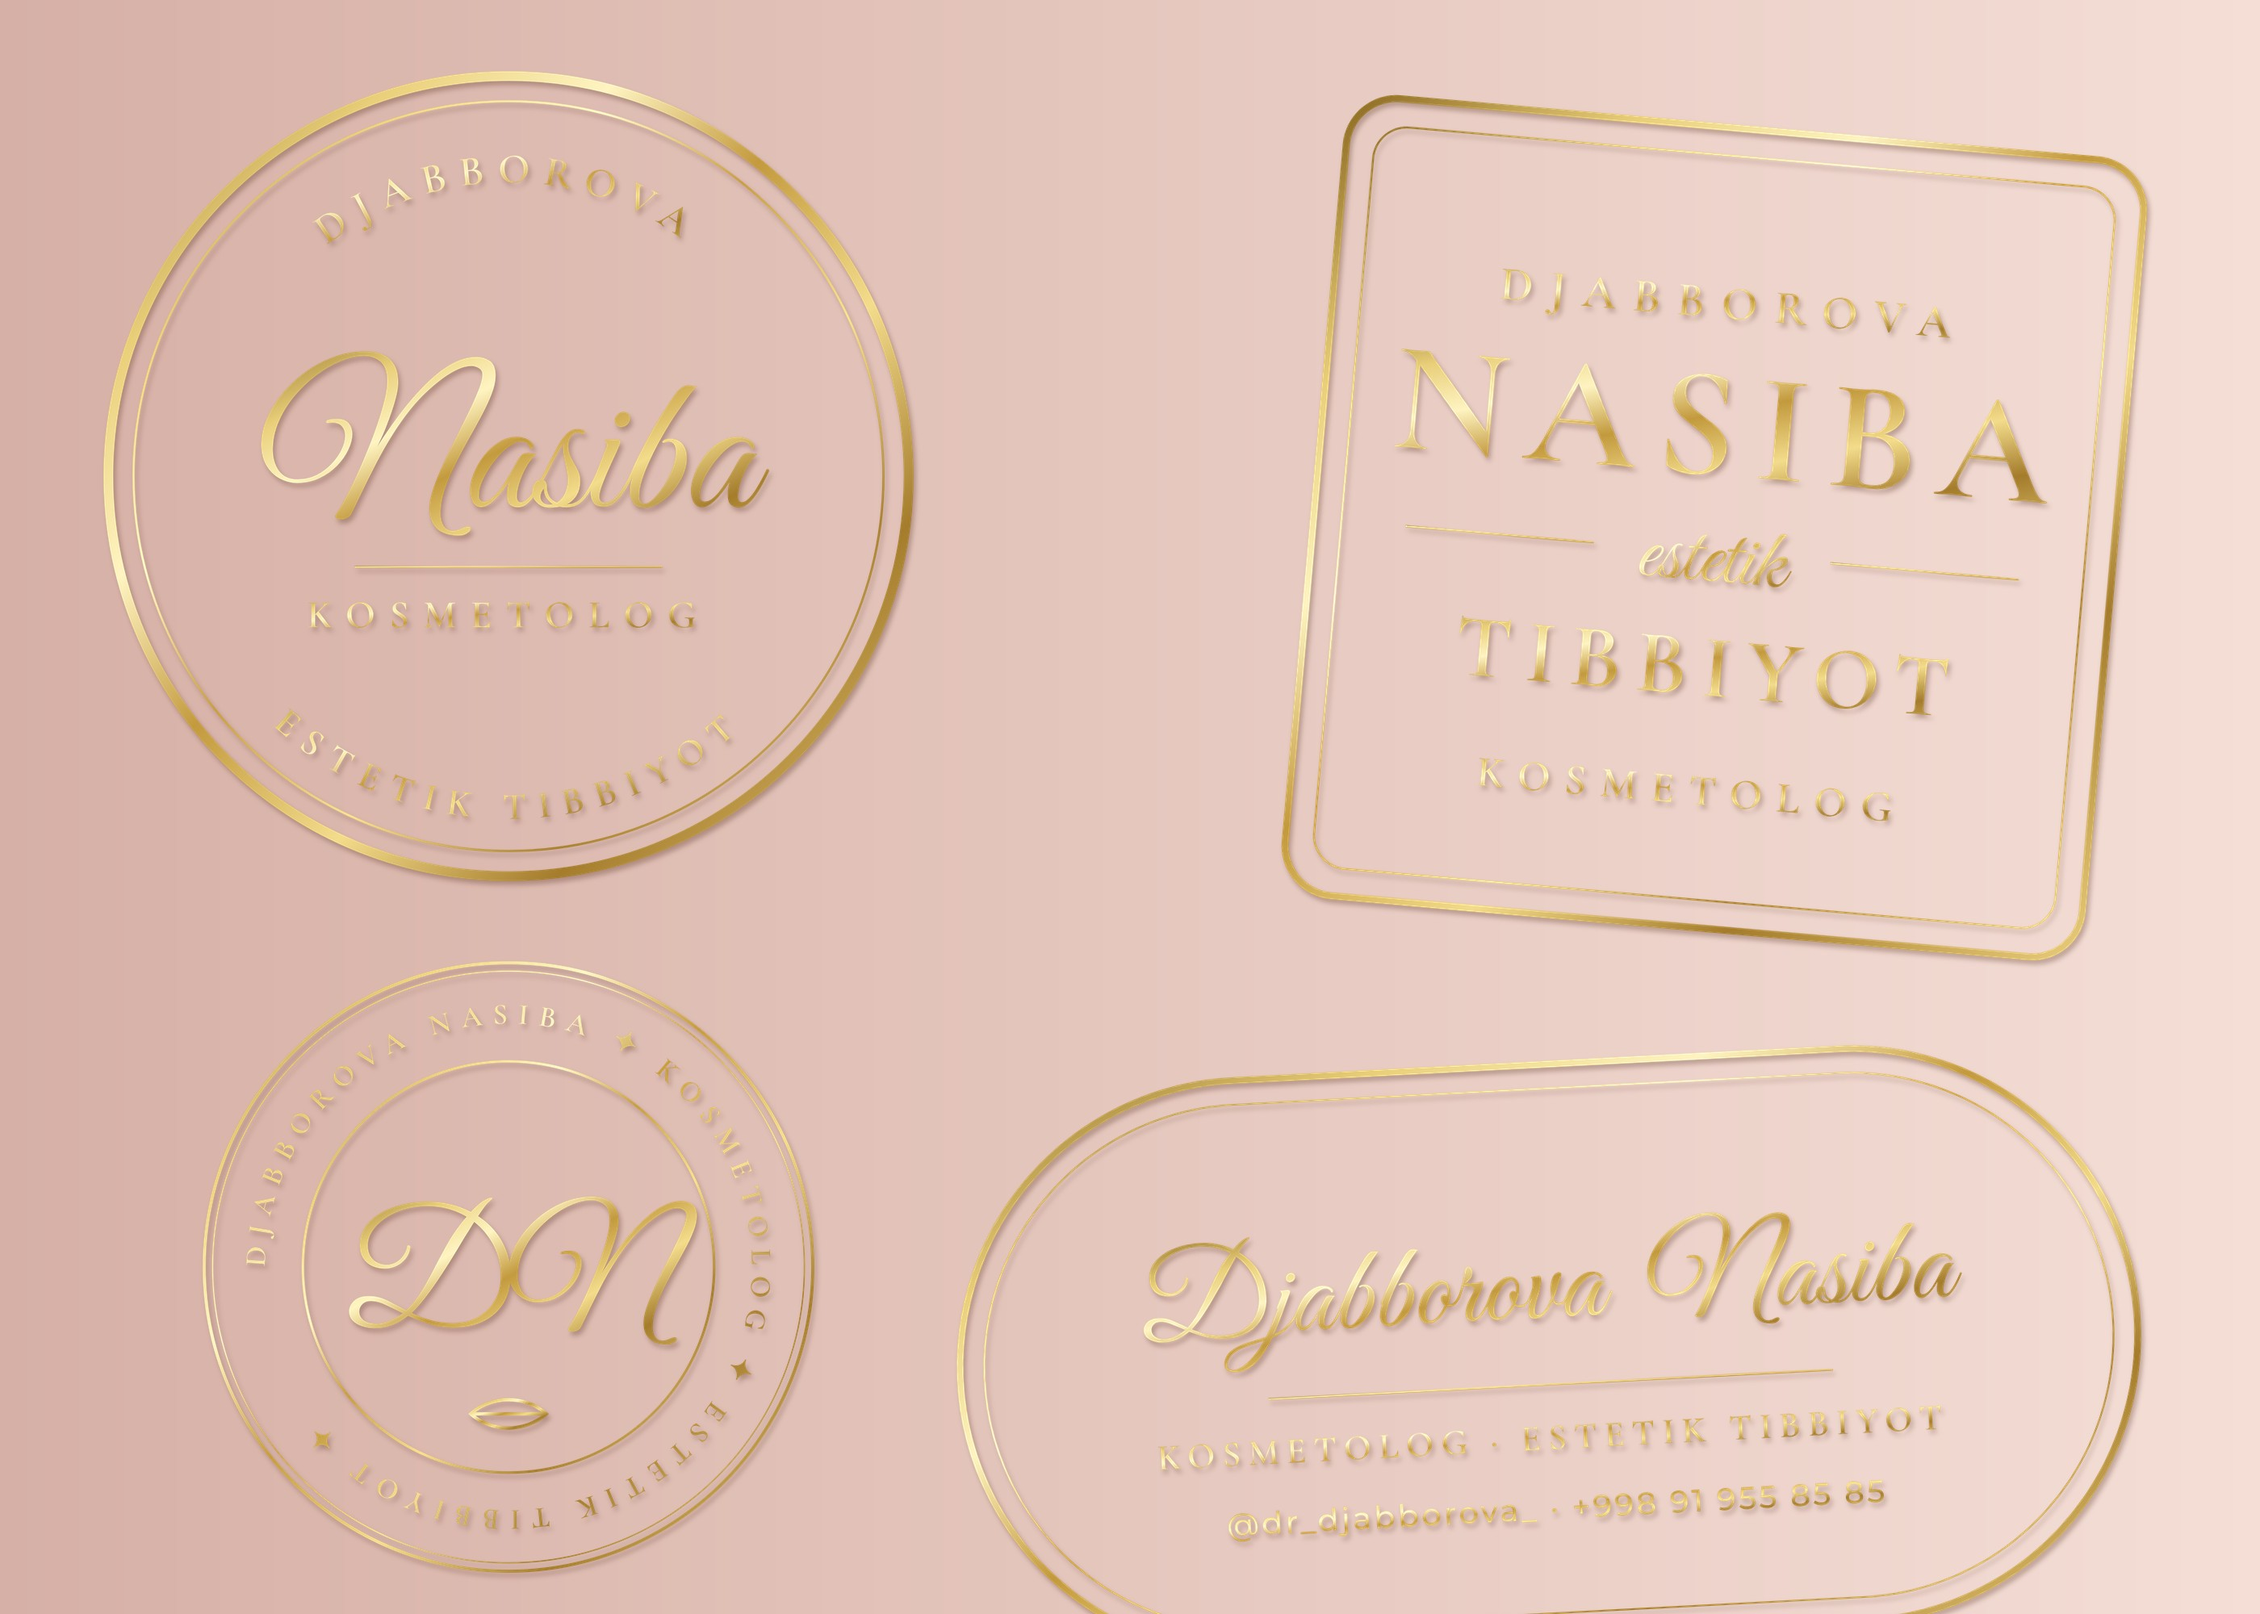
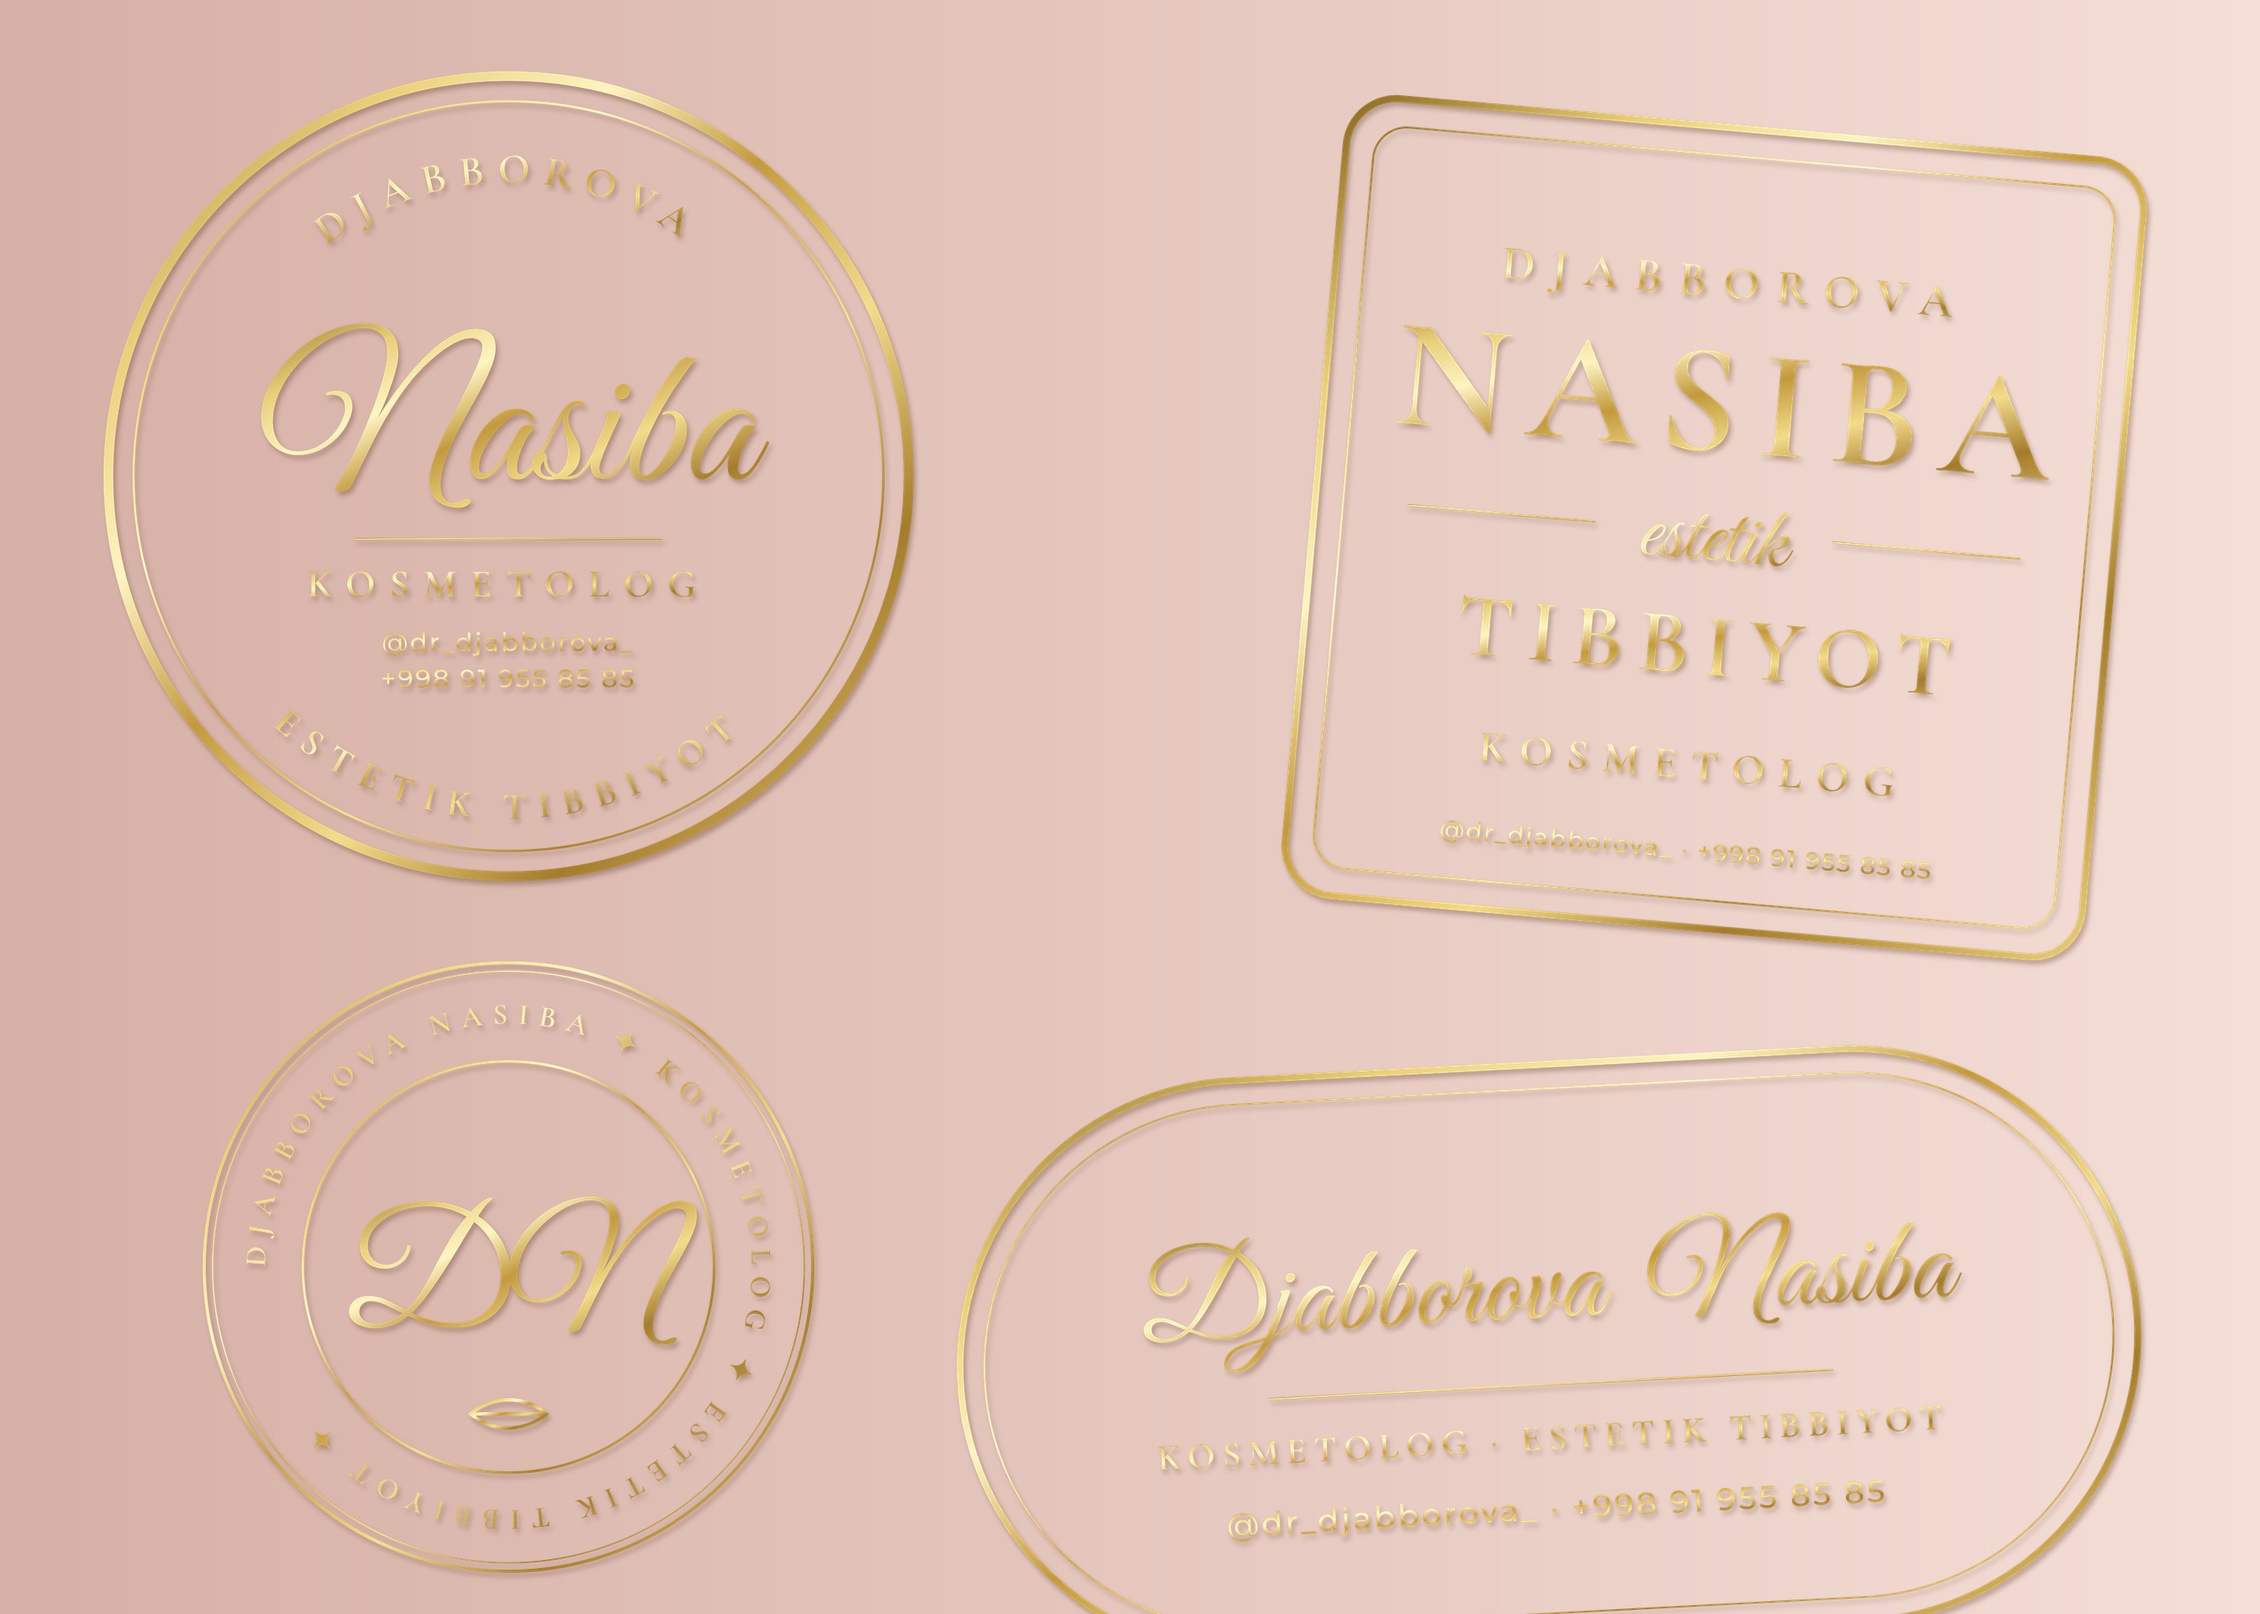
Dumaloq va kvadrat stikerlarga instagram va telefon qo'shildi
Claude-Session: https://claude.ai/code/session_01EZMa5FWMdc5kAPaxufAuZZ

diff --git a/stikerlar/v5_birinchi_dizayn/manba.html b/stikerlar/v5_birinchi_dizayn/manba.html
@@ -24,22 +24,25 @@ svg{display:block}
 <circle cx="300" cy="300" r="268" fill="none" stroke="url(#gold)" stroke-width="1.6"/>
 <text class="serif" font-size="30" letter-spacing="9" fill="url(#gold)" text-anchor="middle"><textPath href="#arcT" startOffset="50%">DJABBOROVA</textPath></text>
 <text class="serif" font-size="27" letter-spacing="7" fill="url(#gold)" text-anchor="middle" dominant-baseline="hanging"><textPath href="#arcB" startOffset="50%">ESTETIK TIBBIYOT</textPath></text>
-<text class="script" x="300" y="322" font-size="140" fill="url(#gold)" text-anchor="middle">Nasiba</text>
-<rect x="190.0" y="364.3" width="220.0" height="1.4" fill="url(#gold)"/>
-<text class="serif" x="300" y="408" font-size="28" letter-spacing="10" fill="url(#gold)" text-anchor="middle">KOSMETOLOG</text>
+<text class="script" x="300" y="302" font-size="140" fill="url(#gold)" text-anchor="middle">Nasiba</text>
+<rect x="190.0" y="344.3" width="220.0" height="1.4" fill="url(#gold)"/>
+<text class="serif" x="300" y="386" font-size="28" letter-spacing="10" fill="url(#gold)" text-anchor="middle">KOSMETOLOG</text>
+<text class="sans" x="300" y="425" font-size="18" letter-spacing="1.5" fill="url(#gold)" text-anchor="middle">@dr_djabborova_</text>
+<text class="sans" x="300" y="451" font-size="18" letter-spacing="1.5" fill="url(#gold)" text-anchor="middle">+998 91 955 85 85</text>
 </svg></div>
 
 <!-- 2: kvadrat (Marina Cake uslubi) -->
 <div class="s" id="s2"><svg width="600" height="600" viewBox="0 0 600 600">
 <rect x="14" y="14" width="572" height="572" rx="36" fill="none" stroke="url(#gold)" stroke-width="5"/>
 <rect x="34" y="34" width="532" height="532" rx="24" fill="none" stroke="url(#gold)" stroke-width="1.4"/>
-<text class="serif" x="300" y="150" font-size="34" letter-spacing="12" fill="url(#gold)" text-anchor="middle">DJABBOROVA</text>
-<text class="serif" x="306" y="262" font-size="112" letter-spacing="14" fill="url(#gold)" text-anchor="middle" font-weight="700">NASIBA</text>
-<rect x="80.0" y="317.3" width="135.0" height="1.4" fill="url(#gold)"/>
-<rect x="385.0" y="317.3" width="135.0" height="1.4" fill="url(#gold)"/>
-<text class="script" x="300" y="338" font-size="62" fill="url(#gold)" text-anchor="middle">estetik</text>
-<text class="serif" x="305" y="420" font-size="64" letter-spacing="10" fill="url(#gold)" text-anchor="middle" font-weight="700">TIBBIYOT</text>
-<text class="serif" x="300" y="498" font-size="31" letter-spacing="10" fill="url(#gold)" text-anchor="middle">KOSMETOLOG</text>
+<text class="serif" x="300" y="135" font-size="34" letter-spacing="12" fill="url(#gold)" text-anchor="middle">DJABBOROVA</text>
+<text class="serif" x="306" y="245" font-size="112" letter-spacing="14" fill="url(#gold)" text-anchor="middle" font-weight="700">NASIBA</text>
+<rect x="80.0" y="302.3" width="135.0" height="1.4" fill="url(#gold)"/>
+<rect x="385.0" y="302.3" width="135.0" height="1.4" fill="url(#gold)"/>
+<text class="script" x="300" y="323" font-size="62" fill="url(#gold)" text-anchor="middle">estetik</text>
+<text class="serif" x="305" y="405" font-size="64" letter-spacing="10" fill="url(#gold)" text-anchor="middle" font-weight="700">TIBBIYOT</text>
+<text class="serif" x="300" y="480" font-size="31" letter-spacing="10" fill="url(#gold)" text-anchor="middle">KOSMETOLOG</text>
+<text class="sans" x="300" y="537" font-size="17" letter-spacing="1.2" fill="url(#gold)" text-anchor="middle">@dr_djabborova_  ·  +998 91 955 85 85</text>
 </svg></div>
 
 <!-- 3: monogramma -->
